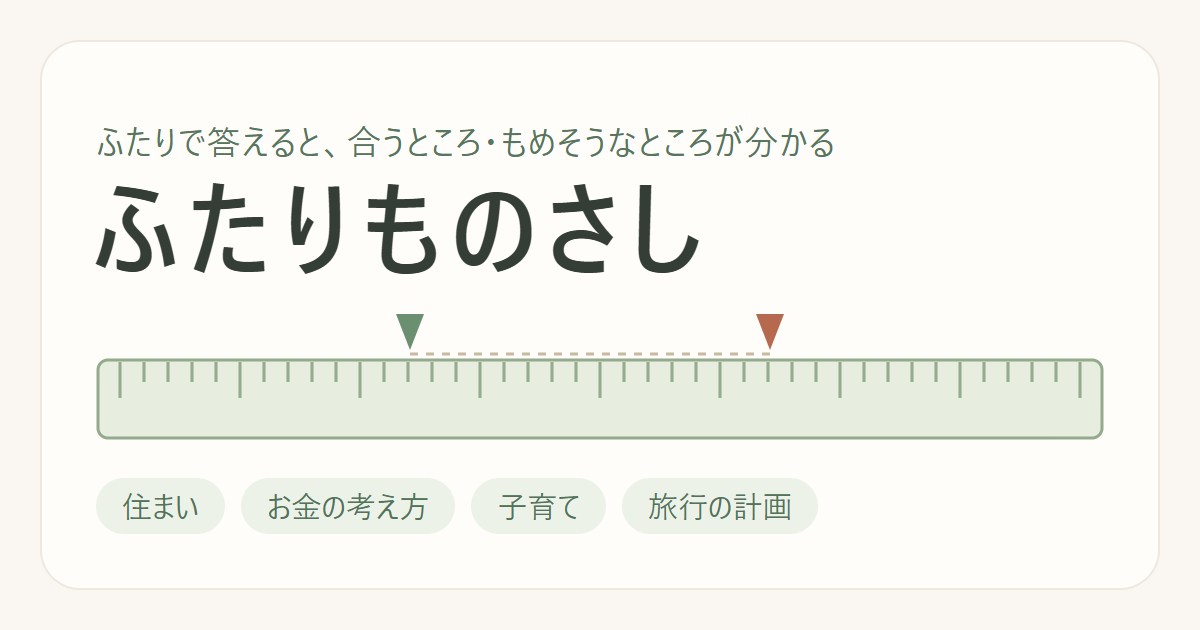
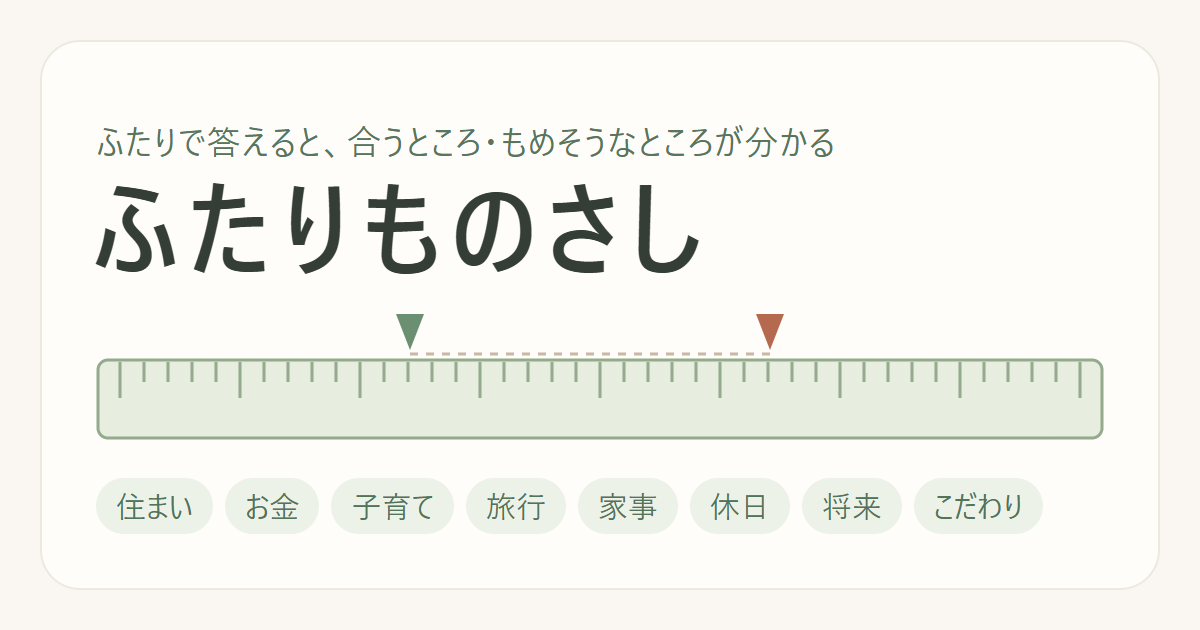
家事の分担・休日の過ごし方・将来・老後・暮らしのこだわりを追加（8テーマに）

Changed region(s): [[0.4008, 0.7841, 0.74, 0.8444], [0.0925, 0.7841, 0.37, 0.8444], [0.7708, 0.7841, 0.8633, 0.8444]]

diff --git a/questions/shourai.js b/questions/shourai.js
@@ -1,0 +1,13 @@
+"use strict";
+window.shouraiQuestions = [
+  {"id": "shourai-1", "talkOrder": 1, "text": "何歳まで働きたい？", "options": ["55歳くらいで引退", "60歳くらい", "65歳くらい", "働けるうちはずっと"], "advice": "「何歳まで今の仕事、そのあとは少しだけ」のように、働き方の段階で考える"},
+  {"id": "shourai-2", "talkOrder": 2, "text": "老後のお金の準備は？", "options": ["年金でなんとかなる", "少しずつ貯める", "しっかり貯める・投資も", "今から最優先で"], "advice": "「老後に毎月いくら要るか」をざっくり出してから、準備の量を決める"},
+  {"id": "shourai-3", "talkOrder": 3, "text": "老後に住みたいのは？", "options": ["今の家のまま", "今の近くで小さく", "便利な街なかへ", "田舎や海の近くへ"], "advice": "「病院・お店・家族」までの近さで、候補を2〜3に絞ってみる"},
+  {"id": "shourai-4", "talkOrder": 4, "text": "親の介護は？", "options": ["施設やプロに任せる", "施設中心で通う", "家で手伝う", "同居してしっかり"], "advice": "両方の親で同じ考えにするか、親の希望を先に聞くかを決める"},
+  {"id": "shourai-5", "talkOrder": 5, "text": "実家（家・お墓など）を継ぐことは？", "options": ["継がなくていい", "できる範囲で", "親と話して決める", "しっかり継ぐ"], "advice": "まず親の考えを聞く。2人だけで決めなくていい話"},
+  {"id": "shourai-6", "talkOrder": 6, "text": "仕事と家庭、どっちを優先？", "options": ["家庭を最優先", "やや家庭", "やや仕事", "仕事を最優先"], "advice": "「この時期は仕事、この時期は家庭」と、期間を区切って考える"},
+  {"id": "shourai-7", "talkOrder": 7, "text": "老後、ふたりの時間は？", "options": ["ずっと一緒", "一緒が多め", "自分の時間が多め", "それぞれ自由に"], "advice": "「一緒にする趣味1つ・別々の趣味1つずつ」を持つ"},
+  {"id": "shourai-8", "talkOrder": 8, "text": "老後はどのくらい活動的に？", "options": ["ゆっくり静かに", "趣味をのんびり", "習いごとや旅行も", "新しい仕事や挑戦も"], "advice": "元気なうちは動き、ゆっくりは後から。順番で考える"},
+  {"id": "shourai-9", "talkOrder": 9, "text": "自分たちに介護が必要になったら？", "options": ["子どもや家族には頼らない", "少しだけ頼る", "ある程度頼る", "家族にみてほしい"], "advice": "頼る・頼らないより、「そのためにいくら準備するか」を話す"},
+  {"id": "shourai-10", "talkOrder": 10, "text": "「もしも」の話（保険・遺言など）は？", "options": ["まだ考えなくていい", "60代になったら", "50代のうちに", "今から少しずつ"], "advice": "保険の見直しのついでに、1年に1回だけ話す日をつくる"}
+];

diff --git a/questions/kodawari.js b/questions/kodawari.js
@@ -1,0 +1,13 @@
+"use strict";
+window.kodawariQuestions = [
+  {"id": "kodawari-1", "talkOrder": 1, "text": "冬のエアコン、何度にする？", "options": ["18度以下", "20度くらい", "22度くらい", "25度以上"], "advice": "「寒い方が1枚着る」がいちばん平和。決着がつかなければ、ひざかけを贈り合う"},
+  {"id": "kodawari-2", "talkOrder": 2, "text": "目玉焼きの黄身は？", "options": ["しっかりかため", "ほぼかため", "半熟", "とろとろ"], "advice": "焼く人が決める。食べる人は「ありがとう」だけ言う"},
+  {"id": "kodawari-3", "talkOrder": 3, "text": "寝るときの明かりは？", "options": ["真っ暗", "足元だけ小さく", "豆電球", "明るめでも平気"], "advice": "暗い派にはアイマスク、明るい派には足元ライト。1,000円で解決するかも"},
+  {"id": "kodawari-4", "talkOrder": 4, "text": "お風呂の温度は？", "options": ["38度以下のぬるめ", "40度くらい", "42度くらい", "44度以上のあつあつ"], "advice": "先に入る人はぬるめ派、あとはお湯を足す。順番で解決"},
+  {"id": "kodawari-5", "talkOrder": 5, "text": "待ち合わせ、何分前に着く？", "options": ["15分前", "5分前", "ちょうど", "少し遅れても気にしない"], "advice": "遅れそうなら「◯分前に連絡」だけルールにする"},
+  {"id": "kodawari-6", "talkOrder": 6, "text": "ドラマや映画のネタバレは？", "options": ["ぜったいダメ", "少しならいい", "聞いても平気", "先に結末を知りたい"], "advice": "見終わるまでその話はしない。知りたい派はこっそり自分で調べる"},
+  {"id": "kodawari-7", "talkOrder": 7, "text": "メッセージの返信は？", "options": ["すぐ返す", "1時間以内", "その日のうち", "気づいたときに"], "advice": "「急ぎは電話」と決めておけば、返信が遅くても気にならない"},
+  {"id": "kodawari-8", "talkOrder": 8, "text": "冷蔵庫の残りものは？", "options": ["早めに捨てる", "2〜3日で捨てる", "食べられるうちは取っておく", "ぎりぎりまで粘る"], "advice": "作った日をマスキングテープに書いて貼る。日付が決着をつけてくれる"},
+  {"id": "kodawari-9", "talkOrder": 9, "text": "誕生日・記念日は？", "options": ["特に何もしない", "ケーキくらい", "プレゼントも", "毎回サプライズ"], "advice": "お祝いしたい方が、相手の好きなやり方に合わせる"},
+  {"id": "kodawari-10", "talkOrder": 10, "text": "朝の目覚ましは？", "options": ["1回で起きる", "2〜3回鳴らす", "5回以上鳴らす", "鳴っても起きない"], "advice": "スヌーズ派は振動だけにする。または、起きる人が起こしてあげる係になる"}
+];

diff --git a/questions/kaji.js b/questions/kaji.js
@@ -1,0 +1,13 @@
+"use strict";
+window.kajiQuestions = [
+  {"id": "kaji-1", "talkOrder": 1, "text": "ごはんは？", "options": ["ほぼ毎日作る", "週に何回か作る", "買ったものも上手に使う", "作らなくていい"], "advice": "「平日は買う・休日は作る」のように、曜日で分ける"},
+  {"id": "kaji-2", "talkOrder": 2, "text": "掃除の回数は？", "options": ["毎日", "2〜3日に1回", "週1回", "汚れたら"], "advice": "気になる方の基準に合わせるなら、気になる方が多めに担当する"},
+  {"id": "kaji-3", "talkOrder": 3, "text": "洗い物は？", "options": ["食べたらすぐ", "その日のうち", "翌朝まとめて", "たまったら"], "advice": "「寝る前までに」を共通の線にする。食洗機を考える"},
+  {"id": "kaji-4", "talkOrder": 4, "text": "洗濯物は？", "options": ["たたんでしまう", "たたむだけ", "たたまずかごへ", "干したところから取る"], "advice": "しまうのが面倒なら、「たたまなくていい物」を決めておく"},
+  {"id": "kaji-5", "talkOrder": 5, "text": "部屋の片付けは？", "options": ["物は出しっぱなしにしない", "だいたい片付いていればいい", "多少散らかっていてもいい", "気にしない"], "advice": "「リビングだけはきれい、自分の場所は自由」と場所で分ける"},
+  {"id": "kaji-6", "talkOrder": 6, "text": "家事のやり方は？", "options": ["決まったやり方で", "だいたい決まり", "できていればいい", "やり方は気にしない"], "advice": "こだわりがある家事は、こだわる人の担当にする。やってもらったら口を出さない"},
+  {"id": "kaji-7", "talkOrder": 7, "text": "家事の便利家電（食洗機・ロボット掃除機など）は？", "options": ["使わない", "1つくらい", "いくつか取り入れる", "お金をかけて任せる"], "advice": "「一番いやな家事」を2人で1つ決めて、それを家電に任せる"},
+  {"id": "kaji-8", "talkOrder": 8, "text": "家事代行・お惣菜など、外の手は？", "options": ["使わない", "ときどき", "月に何回か", "どんどん使う"], "advice": "「忙しい月だけ使っていい」のように、使う場面を決める"},
+  {"id": "kaji-9", "talkOrder": 9, "text": "シーツ・布団の洗濯は？", "options": ["毎週", "2週に1回", "月1回", "気になったら"], "advice": "季節で変えるのも手。夏は毎週、冬は2週に1回など"},
+  {"id": "kaji-10", "talkOrder": 10, "text": "家事の分担、見直すのは？", "options": ["決めたらそのまま", "何かあったら", "半年に1回", "毎月話す"], "advice": "引っ越し・仕事が変わったときなど、「見直すきっかけ」だけ決めておく"}
+];

diff --git a/index.html b/index.html
@@ -4,11 +4,11 @@
 <meta charset="utf-8">
 <meta name="viewport" content="width=device-width,initial-scale=1">
 <title>ふたりものさし</title>
-<meta name="description" content="ふたりで別々に答えると、合うところ・もめそうなところが分かります。住まい・お金・子育て・旅行の4テーマ、1〜2分で。">
+<meta name="description" content="ふたりで別々に答えると、合うところ・もめそうなところが分かります。住まい・お金・子育て・家事・老後など8テーマ、どれも1〜2分で。">
 <meta property="og:type" content="website">
 <meta property="og:site_name" content="ふたりものさし">
 <meta property="og:title" content="ふたりものさし">
-<meta property="og:description" content="ふたりで別々に答えると、合うところ・もめそうなところが分かります。住まい・お金・子育て・旅行の4テーマ、1〜2分で。">
+<meta property="og:description" content="ふたりで別々に答えると、合うところ・もめそうなところが分かります。住まい・お金・子育て・家事・老後など8テーマ、どれも1〜2分で。">
 <meta property="og:url" content="https://futari-monosashi.pages.dev/">
 <meta property="og:image" content="https://futari-monosashi.pages.dev/og.png">
 <meta property="og:image:width" content="1200">
@@ -20,6 +20,10 @@
 <script src="questions/okane.js" defer></script>
 <script src="questions/kosodate.js" defer></script>
 <script src="questions/ryokou.js" defer></script>
+<script src="questions/kaji.js" defer></script>
+<script src="questions/kyujitsu.js" defer></script>
+<script src="questions/shourai.js" defer></script>
+<script src="questions/kodawari.js" defer></script>
 <script src="app.js" defer></script>
 </head>
 <body>
@@ -37,6 +41,10 @@
 <button class="primary" type="button" data-theme="okane">お金の考え方 <span aria-hidden="true">→</span></button>
 <button class="primary" type="button" data-theme="kosodate">子育て <span aria-hidden="true">→</span></button>
 <button class="primary" type="button" data-theme="ryokou">旅行の計画 <span aria-hidden="true">→</span></button>
+<button class="primary" type="button" data-theme="kaji">家事の分担 <span aria-hidden="true">→</span></button>
+<button class="primary" type="button" data-theme="kyujitsu">休日の過ごし方 <span aria-hidden="true">→</span></button>
+<button class="primary" type="button" data-theme="shourai">将来・老後 <span aria-hidden="true">→</span></button>
+<button class="primary" type="button" data-theme="kodawari">暮らしのこだわり <span aria-hidden="true">→</span></button>
 </div>
 <p class="privacy">答えはどこにも保存されません</p>
 </section>

diff --git a/questions/kyujitsu.js b/questions/kyujitsu.js
@@ -1,0 +1,13 @@
+"use strict";
+window.kyujitsuQuestions = [
+  {"id": "kyujitsu-1", "talkOrder": 1, "text": "休日の理想は？", "options": ["家から出ない", "近所を少し", "半日お出かけ", "朝から晩まで外"], "advice": "「午前は家・午後は外」のように、1日の中で分ける"},
+  {"id": "kyujitsu-2", "talkOrder": 2, "text": "休日に起きる時間は？", "options": ["平日と同じ", "少し遅め", "昼前", "昼過ぎまで寝ていたい"], "advice": "早起き派は朝の時間を自分の時間にして、昼から一緒に動く"},
+  {"id": "kyujitsu-3", "talkOrder": 3, "text": "休日の予定は？", "options": ["何も決めない", "前の日に決める", "週の半ばに決める", "前もってしっかり"], "advice": "月に1回だけ「予定を入れる日」を決めて、あとは自由にする"},
+  {"id": "kyujitsu-4", "talkOrder": 4, "text": "ひとりの時間は？", "options": ["いらない", "少しあれば", "半日はほしい", "休日の半分はほしい"], "advice": "ひとりの時間は「わがまま」ではなく「充電」。時間を決めて気持ちよく送り出す"},
+  {"id": "kyujitsu-5", "talkOrder": 5, "text": "友だちと会うのは？", "options": ["ほとんど会わない", "月1回くらい", "月2〜3回", "毎週でも"], "advice": "「会う日は前もって伝える」だけで、不満はかなり減る"},
+  {"id": "kyujitsu-6", "talkOrder": 6, "text": "家族・親戚と会うのは？", "options": ["年に数回", "月1回くらい", "月2〜3回", "毎週でも"], "advice": "両家のバランスを先に話す。回数より「同じくらい」が大事なことも"},
+  {"id": "kyujitsu-7", "talkOrder": 7, "text": "休日の家事は？", "options": ["休日はしない", "少しだけ", "平日の分をまとめて", "しっかり大掃除"], "advice": "「午前中だけ家事」のように、時間で区切る"},
+  {"id": "kyujitsu-8", "talkOrder": 8, "text": "テレビ・動画・ゲームは？", "options": ["ほとんど見ない", "1〜2時間", "半日くらい", "一日中でもいい"], "advice": "一緒に見るものを1つ決めると、「見すぎ」が「一緒の時間」に変わる"},
+  {"id": "kyujitsu-9", "talkOrder": 9, "text": "新しいことをするのは？", "options": ["いつも同じでいい", "たまに", "ときどき", "毎回新しいことを"], "advice": "新しいもの好きな方が、月1回だけ「初めての場所」を担当する"},
+  {"id": "kyujitsu-10", "talkOrder": 10, "text": "連休の過ごし方は？", "options": ["家でゆっくり", "近場で1日", "1泊くらい", "毎回遠くへ"], "advice": "連休の前半は出かけて、後半は家で休む"}
+];

diff --git a/app.js b/app.js
@@ -4,7 +4,11 @@
     sumai: { name: "住まい", short: "住まい", questions: window.sumaiQuestions },
     okane: { name: "お金の考え方", short: "お金", questions: window.okaneQuestions },
     kosodate: { name: "子育て", short: "子育て", questions: window.kosodateQuestions },
-    ryokou: { name: "旅行の計画", short: "旅行", questions: window.ryokouQuestions }
+    ryokou: { name: "旅行の計画", short: "旅行", questions: window.ryokouQuestions },
+    kaji: { name: "家事の分担", short: "家事", questions: window.kajiQuestions },
+    kyujitsu: { name: "休日の過ごし方", short: "休日", questions: window.kyujitsuQuestions },
+    shourai: { name: "将来・老後", short: "将来", questions: window.shouraiQuestions },
+    kodawari: { name: "暮らしのこだわり", short: "こだわり", questions: window.kodawariQuestions }
   };
   let themeId = "sumai";
   let questions = themes[themeId].questions;
